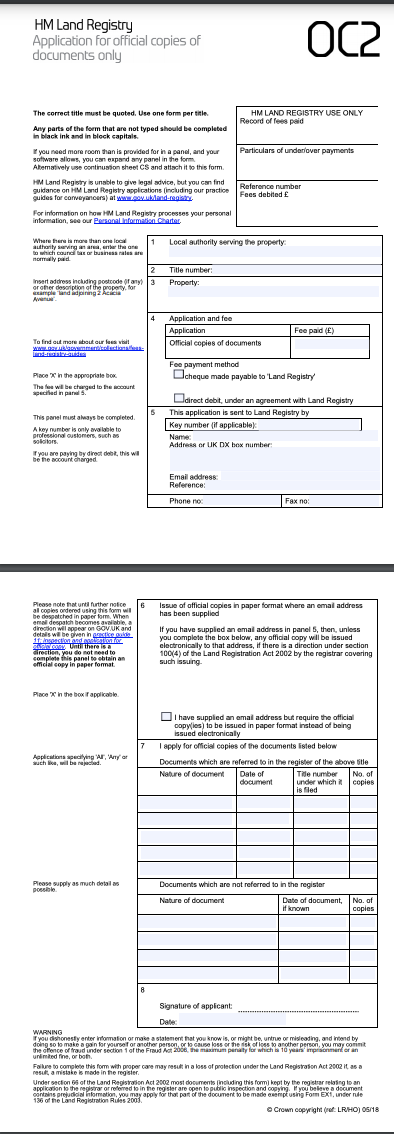
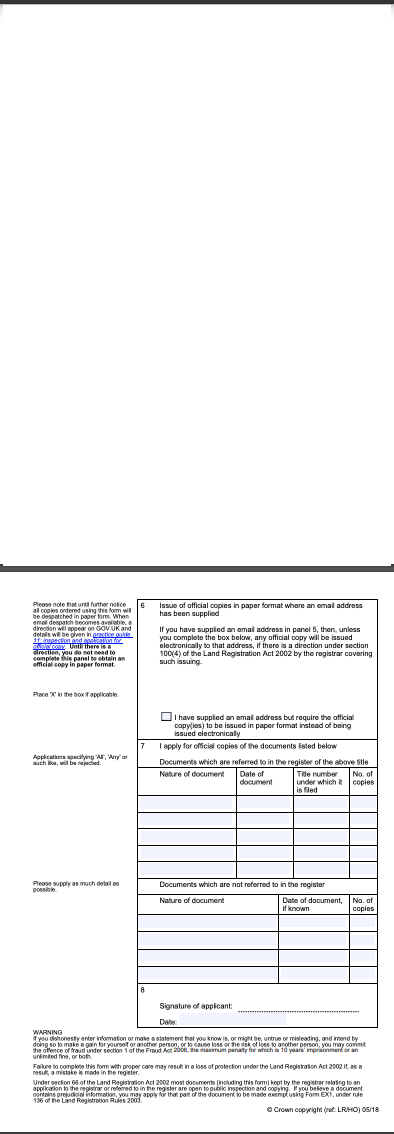
add oc2 PDF image to OC2 page and resize

diff --git a/app/views/deeds/phase1-1/available-docs-deeds2.html b/app/views/deeds/phase1-1/available-docs-deeds2.html
@@ -167,23 +167,6 @@ Buy documents - Search for land and property information
                         </div>
                       </td>
                     </tr>
-                    <th scope="row" class="govuk-table__header">Transfer
-                    </th>
-                    <td class="govuk-table__cell">7 January 1969
-                    </td>
-                    <td class="govuk-table__cell">£3.00</td>
-                    <td class="govuk-table__cell">
-                      <div class="govuk-form-group">
-                        <fieldset class="govuk-fieldset" aria-describedby="doc-hint">
-                          <div class="govuk-checkboxes">
-                            <div class="govuk-checkboxes__item">
-                              <input class="govuk-checkboxes__input" id="checkbox-3" type="checkbox" name="checkbox-tl-1">
-                              <label class="govuk-label govuk-checkboxes__label" for="document_list"></label>
-                            </div>
-                          </div>
-                        </fieldset>
-                      </div>
-                    </td>
                     <tr class="govuk-table__row">
                       <th scope="row" class="govuk-table__header">Charge
                       </th>
@@ -203,7 +186,23 @@ Buy documents - Search for land and property information
                         </div>
                       </td>
                     </tr>
-
+                    <th scope="row" class="govuk-table__header">Transfer
+                    </th>
+                    <td class="govuk-table__cell">7 January 1969
+                    </td>
+                    <td class="govuk-table__cell">£3.00</td>
+                    <td class="govuk-table__cell">
+                      <div class="govuk-form-group">
+                        <fieldset class="govuk-fieldset" aria-describedby="doc-hint">
+                          <div class="govuk-checkboxes">
+                            <div class="govuk-checkboxes__item">
+                              <input class="govuk-checkboxes__input" id="checkbox-3" type="checkbox" name="checkbox-tl-1">
+                              <label class="govuk-label govuk-checkboxes__label" for="document_list"></label>
+                            </div>
+                          </div>
+                        </fieldset>
+                      </div>
+                    </td>
                   </tbody>
                 </table>
 

diff --git a/app/views/deeds/phase1-1/OC2-page.html b/app/views/deeds/phase1-1/OC2-page.html
@@ -111,8 +111,8 @@
             </div
         </details>
       </div>
-      <div style="float:left; padding-right: 15px">
-        <img src="../../public/images/pdf_OC1.png">
+      <div style="float:left; padding-right: 20px; padding-left: 10px;">
+        <img src="../../public/images/oc2-pdf.png" width="100" height="150" alt="OC2 PDF">
       </div>
       <div>
         <p><a href="download-OC2" target="_blank" class="govuk-!-font-size-27">Official copies of documents: registration (OC2)</a></p>

diff --git a/app/views/deeds/phase1-2/OC2-page.html b/app/views/deeds/phase1-2/OC2-page.html
@@ -111,8 +111,8 @@
             </div
         </details>
       </div>
-      <div style="float:left; padding-right: 15px">
-        <img src="../../public/images/pdf_OC1.png">
+      <div style="float:left; padding-right: 20px; padding-left: 10px;">
+        <img src="../../public/images/oc2-pdf.png" width="100" height="150" alt="OC2 PDF">
       </div>
       <div>
         <p><a href="download-OC1" class="govuk-!-font-size-27">Official copies of documents: registration (OC2)</a></p>

diff --git a/app/views/deeds/phase1-3/OC2-page.html b/app/views/deeds/phase1-3/OC2-page.html
@@ -111,8 +111,8 @@
             </div
         </details>
       </div>
-      <div style="float:left; padding-right: 15px">
-        <img src="../../public/images/pdf_OC1.png">
+      <div style="float:left; padding-right: 20px; padding-left: 10px;">
+        <img src="../../public/images/oc2-pdf.png" width="100" height="150" alt="OC2 PDF">
       </div>
       <div>
         <p><a href="download-OC1" class="govuk-!-font-size-27">Official copies of documents: registration (OC2)</a></p>
